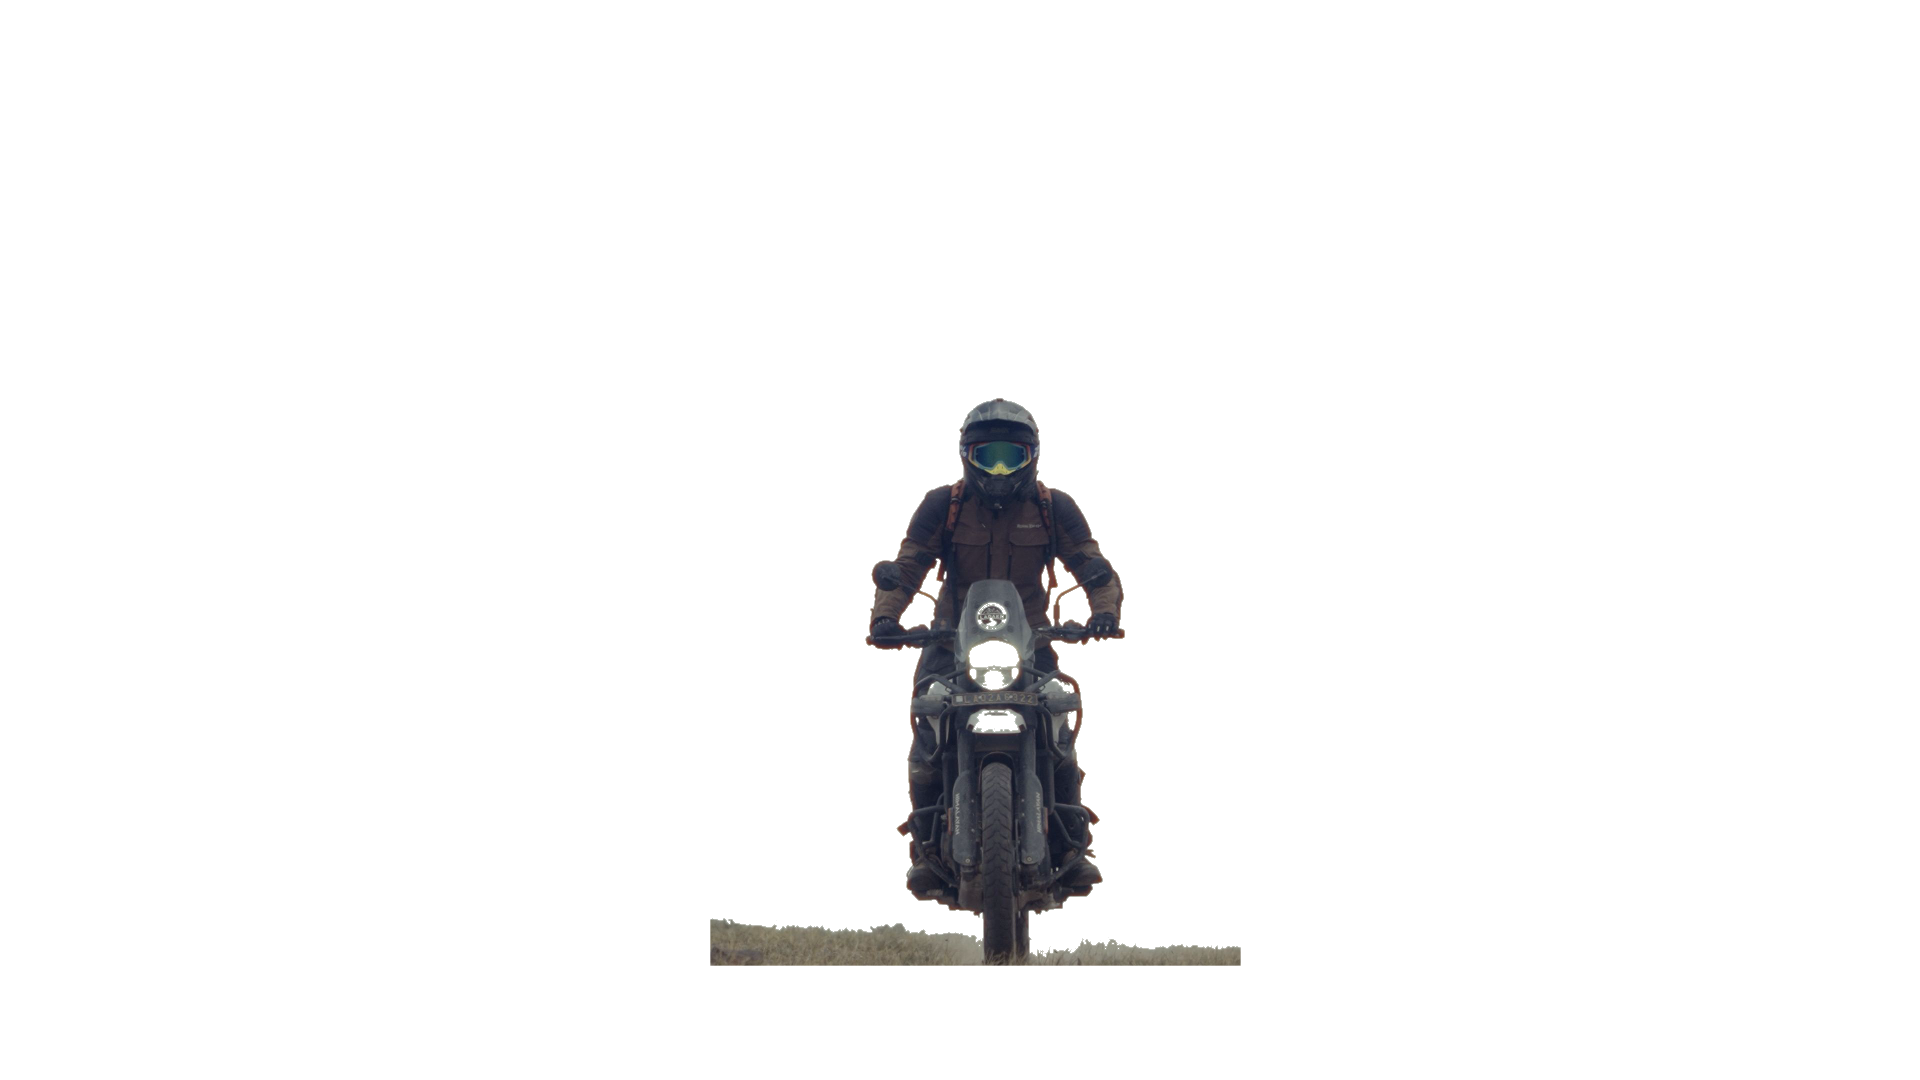
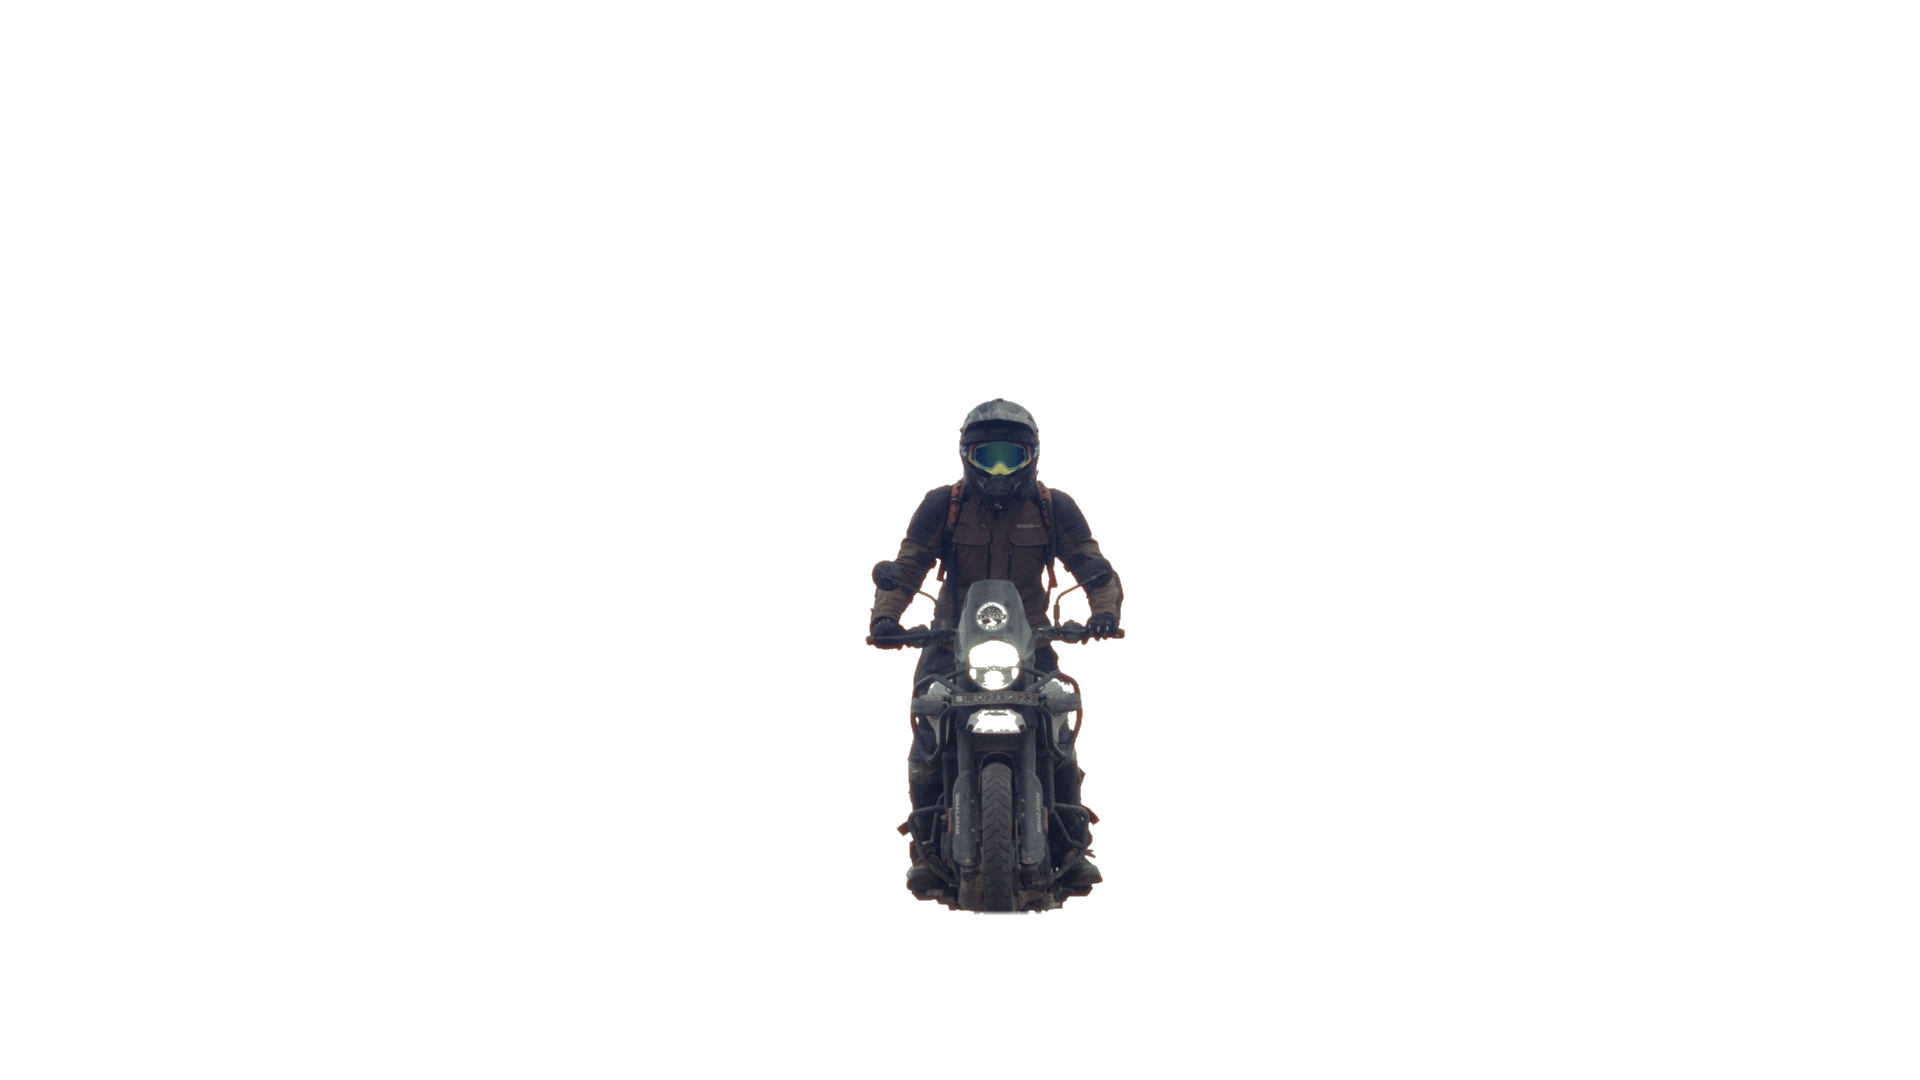
fix(footer): remove grass below bike cutout and adjust z-index layering for email contact and headline

Changed region(s): [[0.3438, 0.825, 0.6562, 0.9167]]

diff --git a/src/components/Footer/Footer.css b/src/components/Footer/Footer.css
@@ -32,9 +32,25 @@
   z-index: 0;
 }
 
+.site-footer-editorial::after {
+  content: '';
+  position: absolute;
+  top: 0;
+  left: 0;
+  right: 0;
+  bottom: 0;
+  background-image: url('/pi_rider_cutout.png');
+  background-size: cover;
+  background-position: center 42%;
+  background-repeat: no-repeat;
+  filter: brightness(1.35) contrast(1.08);
+  pointer-events: none;
+  z-index: 2;
+}
+
 .site-footer-editorial > .container {
   position: relative;
-  z-index: 1;
+  z-index: auto;
   height: 100%;
   display: flex;
   flex-direction: column;
@@ -46,9 +62,11 @@
 .footer-top-brand {
   padding-top: 1rem;
   padding-bottom: 0.5rem;
+  position: relative;
+  z-index: 5;
 }
 
-/* Call to Action (CTA) Section */
+/* Call to Action (CTA) Section - Behind Bike Cutout */
 .footer-cta-section {
   padding-top: 1rem;
   padding-bottom: 2rem;
@@ -56,6 +74,8 @@
   flex-direction: column;
   align-items: flex-start;
   gap: 1.75rem;
+  position: relative;
+  z-index: 1; /* Behind bike cutout (z-index: 2) */
 }
 
 .footer-cta-headline {
@@ -167,19 +187,23 @@
   gap: 0.85rem;
   margin-bottom: 1rem;
   flex-wrap: wrap;
+  position: relative;
+  z-index: 5;
 }
 
 .footer-contact-item {
   font-family: var(--font-body);
   font-size: 0.875rem;
   color: #FFFFFF;
-  font-weight: 300; /* Thinner font weight */
+  font-weight: 400;
   letter-spacing: 0.01em;
   text-decoration: none;
   transition: color var(--transition-fast);
-  text-shadow: 0 2px 8px rgba(0, 0, 0, 0.95);
+  text-shadow: 0 2px 10px rgba(0, 0, 0, 0.95), 0 0 15px rgba(0, 0, 0, 0.9);
   overflow-wrap: break-word;
   word-break: break-word;
+  position: relative;
+  z-index: 5;
 }
 
 .footer-contact-item:hover {
@@ -238,6 +262,8 @@
   padding-bottom: 1rem;
   gap: 1.25rem;
   flex-wrap: wrap;
+  position: relative;
+  z-index: 5;
 }
 
 .footer-legal-links {
@@ -285,22 +311,6 @@
 }
 
 @media (max-width: 768px) {
-  .site-footer-editorial::after {
-    content: '';
-    position: absolute;
-    top: 0;
-    left: 0;
-    right: 0;
-    bottom: 0;
-    background-image: url('/pi_rider_cutout.png');
-    background-size: cover;
-    background-position: center 42%;
-    background-repeat: no-repeat;
-    filter: brightness(1.35) contrast(1.08);
-    pointer-events: none;
-    z-index: 2;
-  }
-
   .site-footer-editorial {
     min-height: auto;
     padding-top: 2.5rem;
@@ -324,9 +334,11 @@
 
   .footer-contact-item {
     font-size: 0.8125rem;
-    font-weight: 300;
+    font-weight: 500;
     color: #FFFFFF;
-    text-shadow: 0 2px 10px rgba(0, 0, 0, 0.95);
+    position: relative;
+    z-index: 5;
+    text-shadow: 0 2px 10px rgba(0, 0, 0, 0.98), 0 0 16px rgba(0, 0, 0, 0.95);
   }
 
   .contact-prefix {
